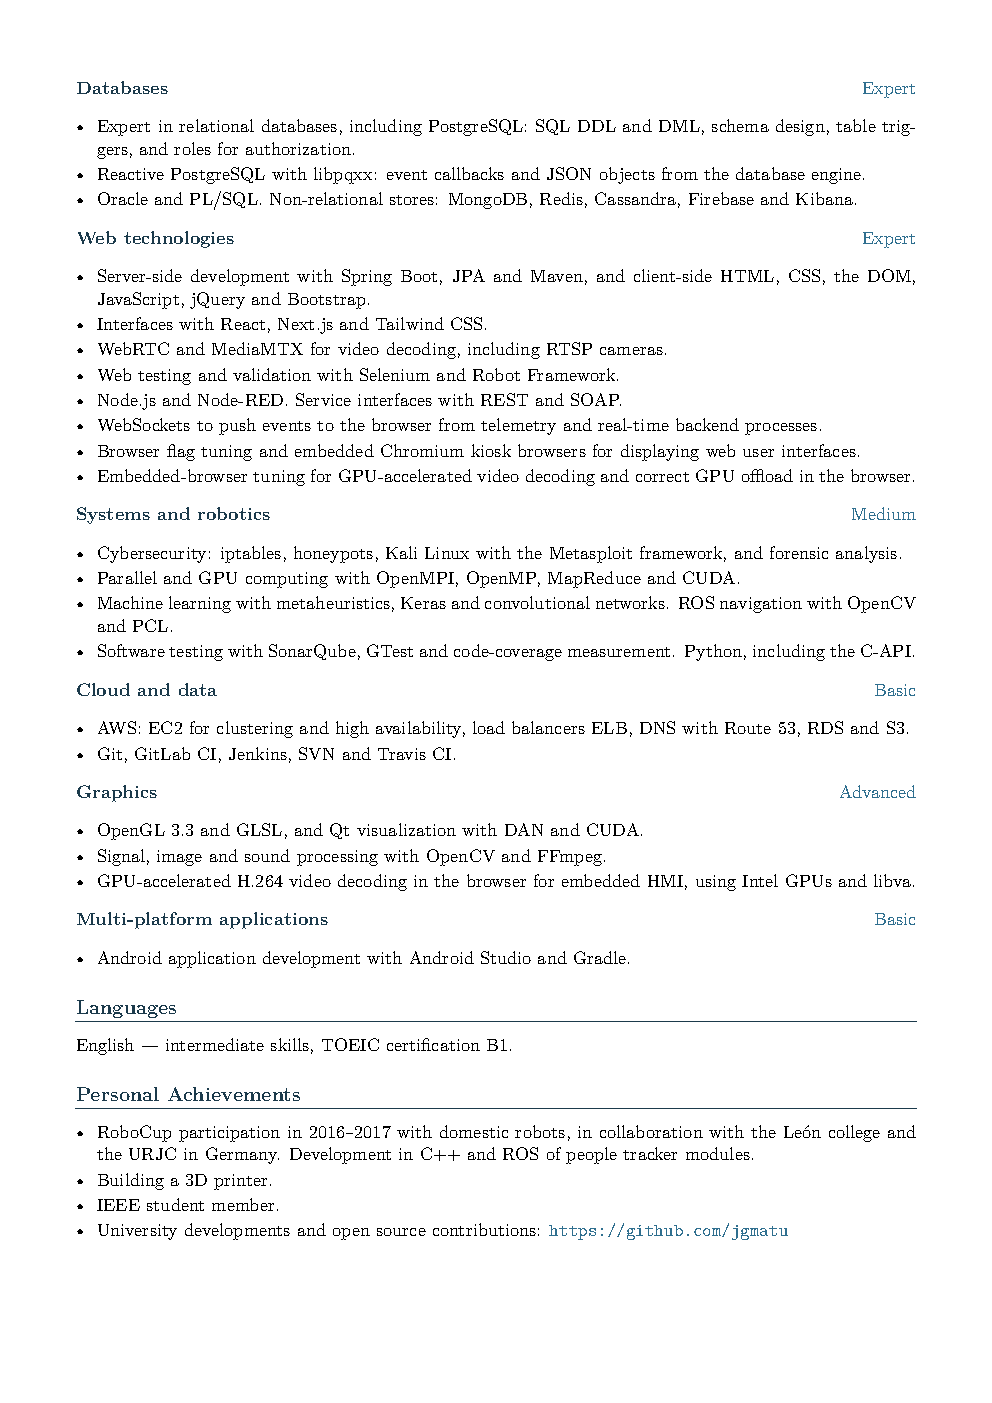
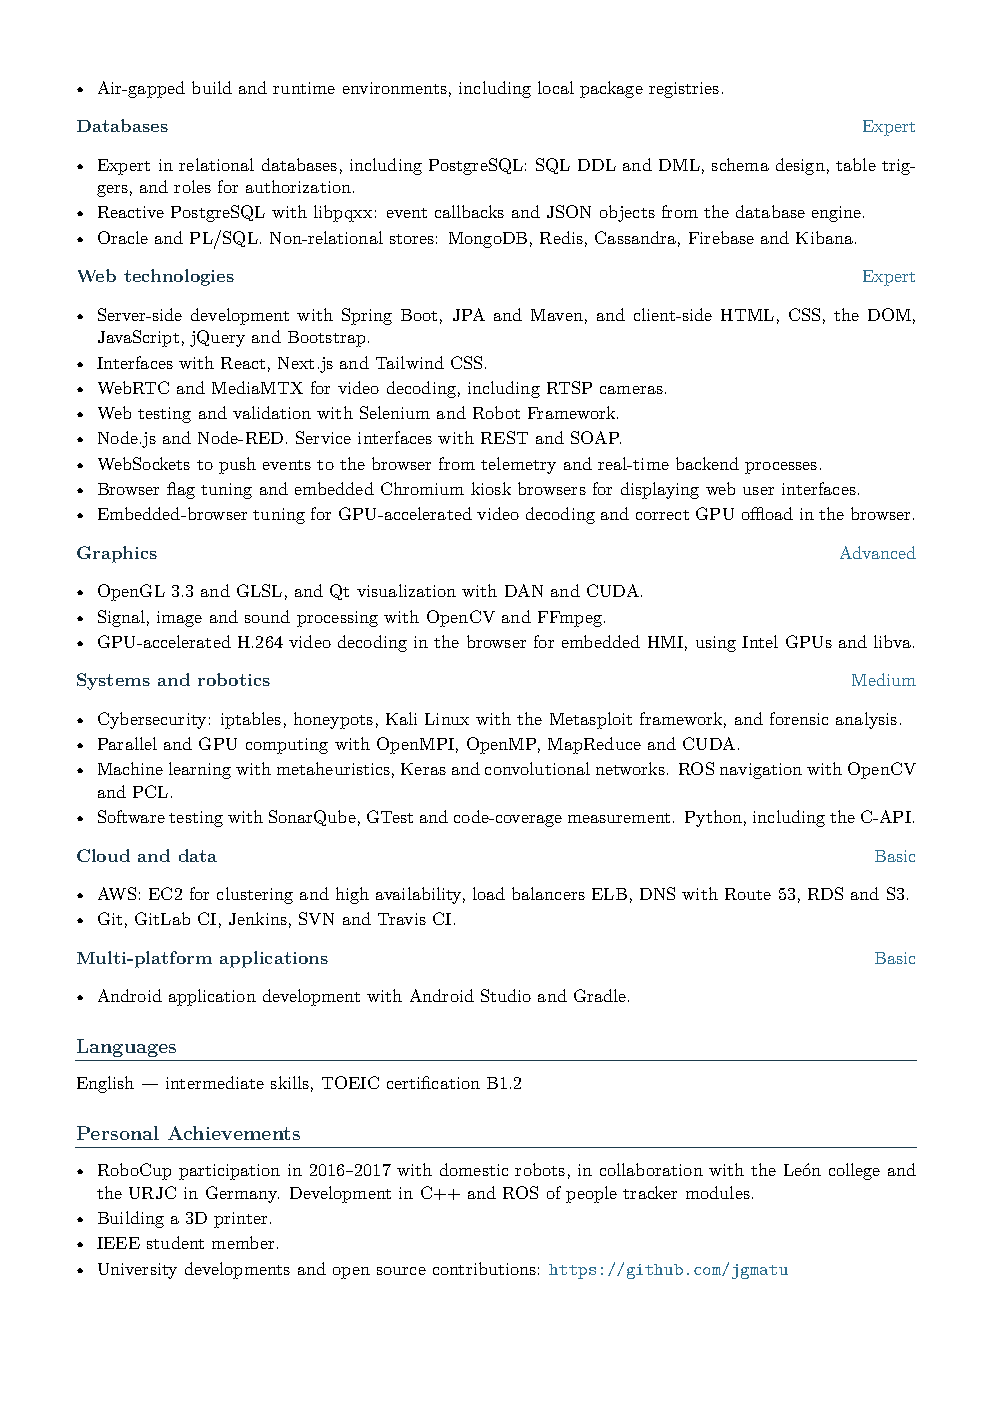
Order knowledge by level and keep each heading with its list.

diff --git a/CV_FJGMS_INDRA.tex b/CV_FJGMS_INDRA.tex
@@ -16,6 +16,7 @@
 \usepackage[margin=1.6cm]{geometry}
 \usepackage{xcolor}
 \usepackage{enumitem}
+\usepackage{needspace}
 \usepackage{titlesec}
 \usepackage{graphicx}
 \usepackage{hyperref}
@@ -56,6 +57,13 @@
   \vspace{0.35em}
   \noindent{\bfseries #1}\\
   #2\hfill{\color{cvaccent}#3}\par
+}
+
+% Título de conocimiento pegado al inicio de su lista.
+\newcommand{\cvskill}[2]{%
+  \Needspace{5\baselineskip}%
+  \noindent{\bfseries\color{cvblue} #1}\hfill{\color{cvaccent} #2}\par
+  \nopagebreak
 }
 
 \begin{document}
@@ -240,7 +248,7 @@ Date of birth: 03/05/1991
 
 \section{Knowledge}
 
-{\bfseries\color{cvblue} Cryptography}\hfill{\color{cvaccent} Expert}
+\cvskill{Cryptography}{Expert}
 
 \begin{itemize}
   \item Expert in applied cryptography: RSA, elliptic-curve Diffie--Hellman (ECDH) and ECDSA, AES, key encapsulation mechanisms (KEM) and post-quantum cryptography with Open Quantum Safe (OQS).
@@ -248,7 +256,7 @@ Date of birth: 03/05/1991
   \item Fully homomorphic encryption (FHE), physical unclonable functions (PUF), quantum random number generators (QRNG) and mTLS. PKCS\#11 HSMs, IPsec with strongSwan and IKEv2, FrodoKEM, SHAKE and XMSS.
 \end{itemize}
 
-{\bfseries\color{cvblue} Networks}\hfill{\color{cvaccent} Expert}
+\cvskill{Networks}{Expert}
 
 \begin{itemize}
   \item Expert in WiFi 5 and WiFi 6, 802.11k/v access-point steering, and the WiFi subsystem of access points.
@@ -260,7 +268,7 @@ Date of birth: 03/05/1991
   \item FPGA offload of cryptographic datapath operations to accelerate cryptographic processing.
 \end{itemize}
 
-{\bfseries\color{cvblue} SoC and embedded}\hfill{\color{cvaccent} Expert}
+\cvskill{SoC and embedded}{Expert}
 
 \begin{itemize}
   \item Expert in system-on-chip platforms, including MIPS32 and PowerPC: assembler, memory hierarchy (stack, heap, data, text), microprocessor internals and DMA peripherals.
@@ -272,7 +280,7 @@ Date of birth: 03/05/1991
   \item Toolchains and native compilation of the kernel and GCC for certification builds on ARM, ARM64, AMD64 and PowerPC.
 \end{itemize}
 
-{\bfseries\color{cvblue} Linux kernel}\hfill{\color{cvaccent} Expert}
+\cvskill{Linux kernel}{Expert}
 
 \begin{itemize}
   \item Expert in the Linux kernel: process model, POSIX multi-threading, ioctl and netlink, and maintenance of in-kernel WiFi modules.
@@ -287,7 +295,7 @@ Date of birth: 03/05/1991
   \item Shell and boot environment around the kernel: Bash, System V services, SSH and tunneling.
 \end{itemize}
 
-{\bfseries\color{cvblue} Virtualization}\hfill{\color{cvaccent} Expert}
+\cvskill{Virtualization}{Expert}
 
 \begin{itemize}
   \item QEMU/KVM and VirtualBox hypervisors, Docker and Podman containers, and Kubernetes as a container orchestrator.
@@ -299,7 +307,7 @@ Date of birth: 03/05/1991
   \item Air-gapped build and runtime environments, including local package registries.
 \end{itemize}
 
-{\bfseries\color{cvblue} Databases}\hfill{\color{cvaccent} Expert}
+\cvskill{Databases}{Expert}
 
 \begin{itemize}
   \item Expert in relational databases, including PostgreSQL: SQL DDL and DML, schema design, table triggers, and roles for authorization.
@@ -307,7 +315,7 @@ Date of birth: 03/05/1991
   \item Oracle and PL/SQL. Non-relational stores: MongoDB, Redis, Cassandra, Firebase and Kibana.
 \end{itemize}
 
-{\bfseries\color{cvblue} Web technologies}\hfill{\color{cvaccent} Expert}
+\cvskill{Web technologies}{Expert}
 
 \begin{itemize}
   \item Server-side development with Spring Boot, JPA and Maven, and client-side HTML, CSS, the DOM, JavaScript, jQuery and Bootstrap.
@@ -320,7 +328,15 @@ Date of birth: 03/05/1991
   \item Embedded-browser tuning for GPU-accelerated video decoding and correct GPU offload in the browser.
 \end{itemize}
 
-{\bfseries\color{cvblue} Systems and robotics}\hfill{\color{cvaccent} Medium}
+\cvskill{Graphics}{Advanced}
+
+\begin{itemize}
+  \item OpenGL 3.3 and GLSL, and Qt visualization with DAN and CUDA.
+  \item Signal, image and sound processing with OpenCV and FFmpeg.
+  \item GPU-accelerated H.264 video decoding in the browser for embedded HMI, using Intel GPUs and libva.
+\end{itemize}
+
+\cvskill{Systems and robotics}{Medium}
 
 \begin{itemize}
   \item Cybersecurity: iptables, honeypots, Kali Linux with the Metasploit framework, and forensic analysis.
@@ -329,22 +345,14 @@ Date of birth: 03/05/1991
   \item Software testing with SonarQube, GTest and code-coverage measurement. Python, including the C-API.
 \end{itemize}
 
-{\bfseries\color{cvblue} Cloud and data}\hfill{\color{cvaccent} Basic}
+\cvskill{Cloud and data}{Basic}
 
 \begin{itemize}
   \item AWS: EC2 for clustering and high availability, load balancers ELB, DNS with Route 53, RDS and S3.
   \item Git, GitLab CI, Jenkins, SVN and Travis CI.
 \end{itemize}
 
-{\bfseries\color{cvblue} Graphics}\hfill{\color{cvaccent} Advanced}
-
-\begin{itemize}
-  \item OpenGL 3.3 and GLSL, and Qt visualization with DAN and CUDA.
-  \item Signal, image and sound processing with OpenCV and FFmpeg.
-  \item GPU-accelerated H.264 video decoding in the browser for embedded HMI, using Intel GPUs and libva.
-\end{itemize}
-
-{\bfseries\color{cvblue} Multi-platform applications}\hfill{\color{cvaccent} Basic}
+\cvskill{Multi-platform applications}{Basic}
 
 \begin{itemize}
   \item Android application development with Android Studio and Gradle.
@@ -352,7 +360,7 @@ Date of birth: 03/05/1991
 
 \section{Languages}
 
-English --- intermediate skills, TOEIC certification B1.
+English --- intermediate skills, TOEIC certification B1.2
 
 \section{Personal Achievements}
 
